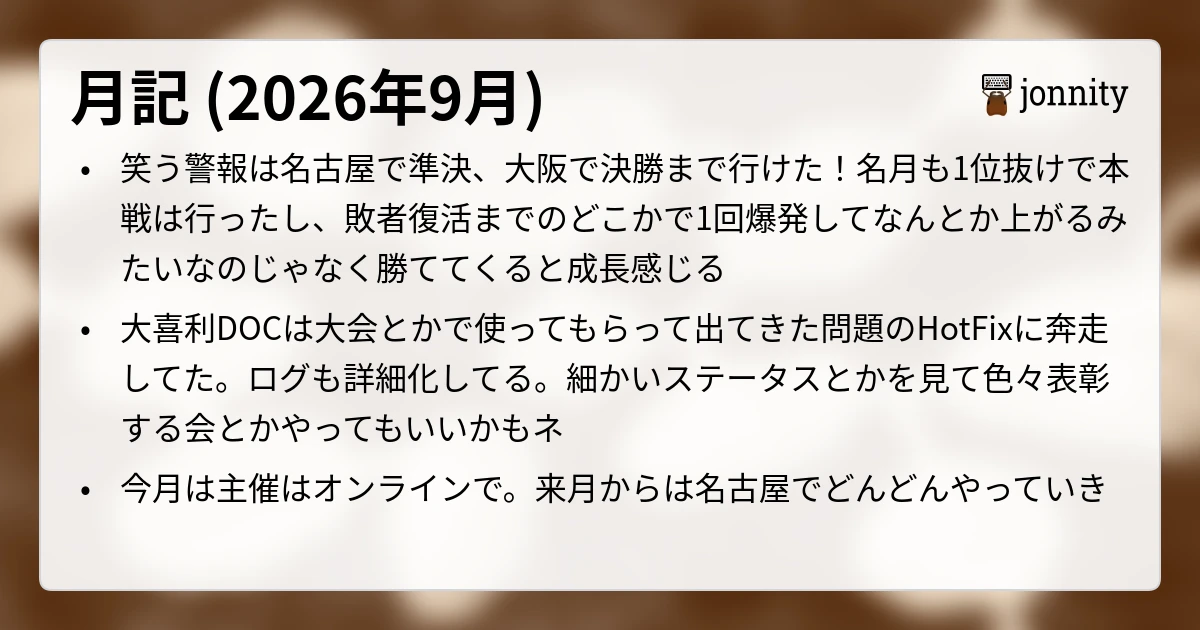
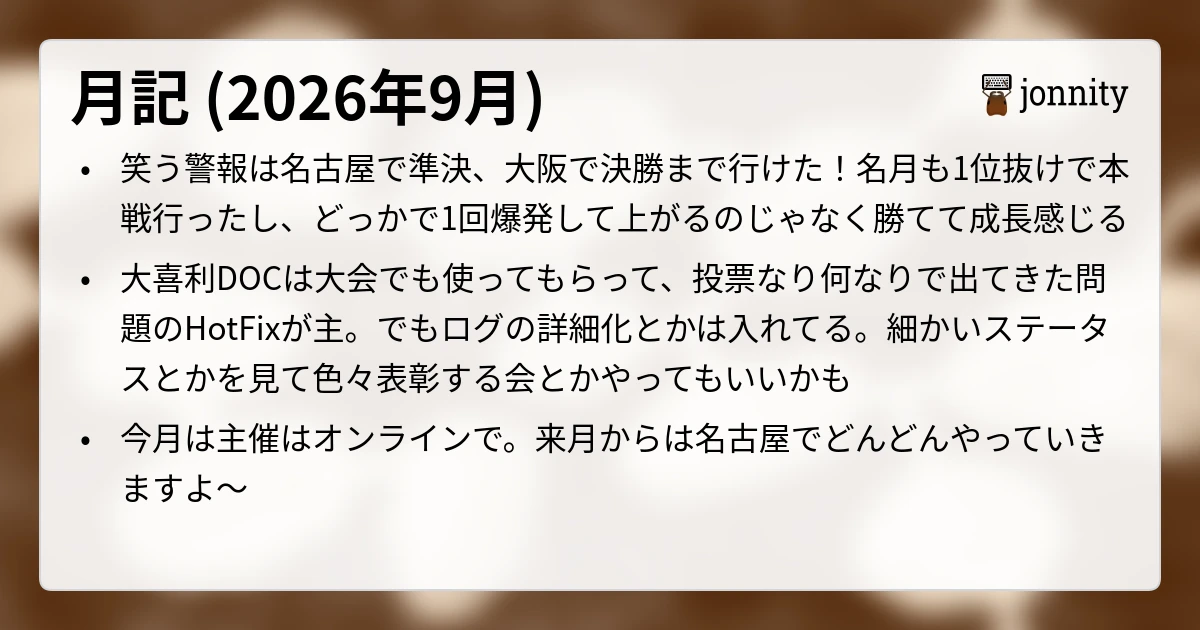
fix: 月記(2026年9月)のsummaryをサムネに収まる長さに調整

diff --git a/src/entries/monthly-2026-09.md b/src/entries/monthly-2026-09.md
@@ -5,8 +5,8 @@ description: 2026年9月の活動の振り返り
 tags:
   - 月記
 summary:
-  - 笑う警報は名古屋で準決、大阪で決勝まで行けた！名月も1位抜けで本戦は行ったし、敗者復活までのどこかで1回爆発してなんとか上がるみたいなのじゃなく勝ててくると成長感じる
-  - 大喜利DOCは大会とかで使ってもらって出てきた問題のHotFixに奔走してた。ログも詳細化してる。細かいステータスとかを見て色々表彰する会とかやってもいいかもネ
+  - 笑う警報は名古屋で準決、大阪で決勝まで行けた！名月も1位抜けで本戦行ったし、どっかで1回爆発して上がるのじゃなく勝てて成長感じる
+  - 大喜利DOCは大会でも使ってもらって、投票なり何なりで出てきた問題のHotFixが主。でもログの詳細化とかは入れてる。細かいステータスとかを見て色々表彰する会とかやってもいいかも
   - 今月は主催はオンラインで。来月からは名古屋でどんどんやっていきますよ～
 thumbnail:
   url: monthly-report-2026-09-thumbnail.webp
